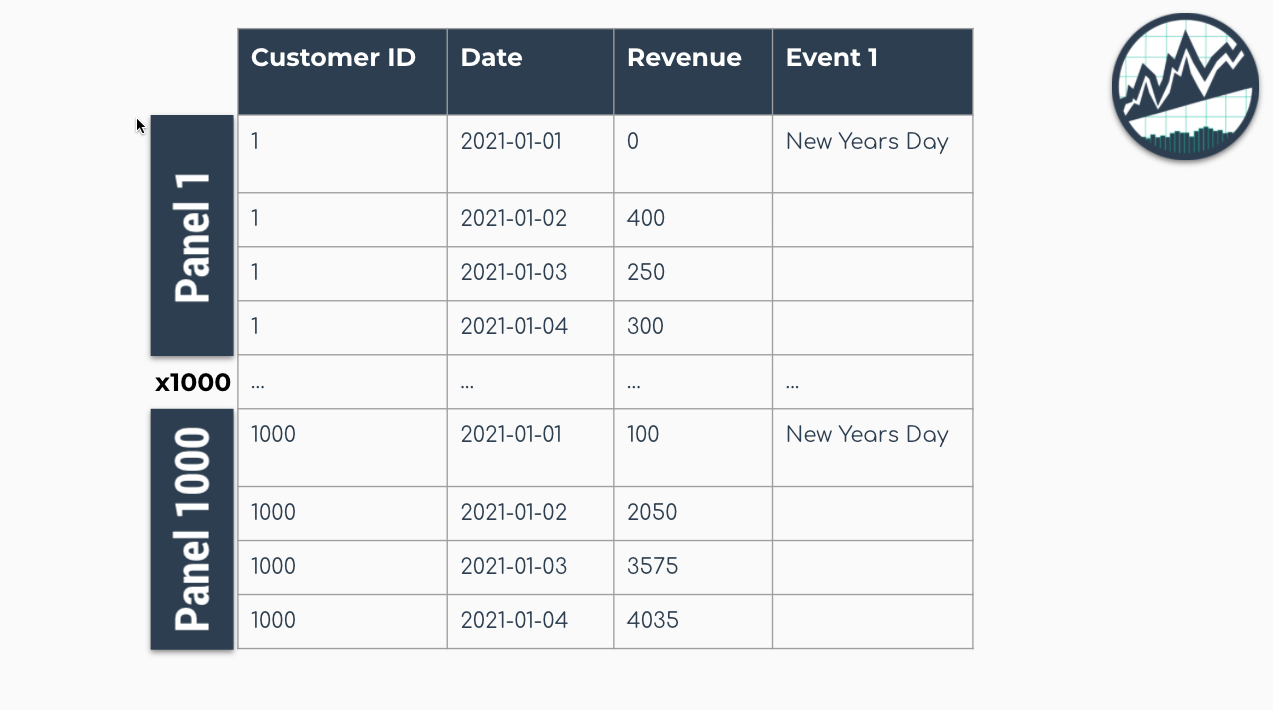
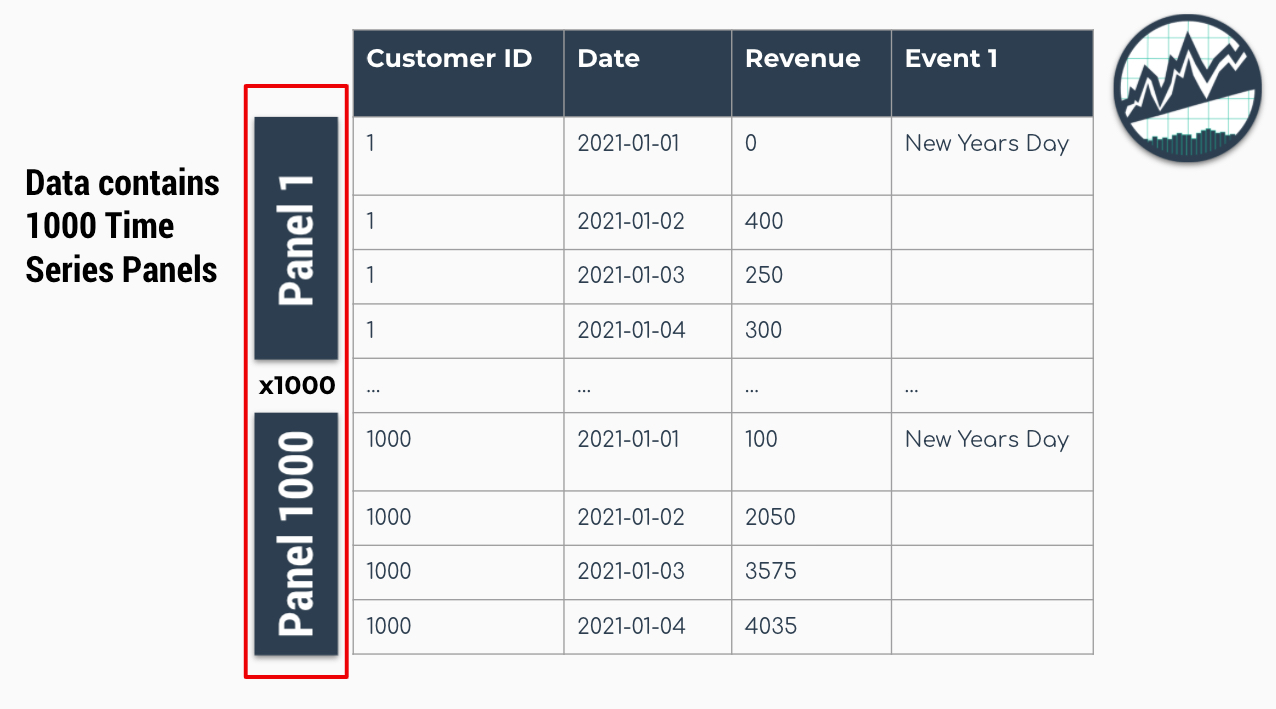
update images / intro

diff --git a/_posts/2021-07-19-modeltime-panel-data.md b/_posts/2021-07-19-modeltime-panel-data.md
@@ -10,7 +10,7 @@ image: 2021-07-19-panel-data/say_no_to_for_loops.jpg
 image_preview: 2021-07-19-panel-data/say_no_to_for_loops.jpg
 ---
 
-I'm __super excited__ to introduce the new panel data forecasting functionality in `modeltime`. It's perfect for forecasting many time series at once without for-loops saving you time ⏱ and aggravation 😞. <span style="color:red">__Just say NO to for-loops.__</span>
+Spending too much time on making iterative forecasts? I'm __super excited__ to introduce the new panel data forecasting functionality in `modeltime`. It's perfect for forecasting many time series at once without for-loops saving you time ⏱ and aggravation 😞.  <span style="color:red">__Just say NO to for-loops for forecasting.__</span>
 
 <div class="pull-right" style="width:60%; margin-left:20px; margin-bottom:20px;">
   <a href="#" target="_blank">
@@ -36,7 +36,8 @@ I can't possibly go over all of the new modeltime features released in 0.7.0 in 
 
 - Deep Learning (Torch Integration)
 - Global Models
-- New Features
+- Panel Data Forecasting
+- New Modeltime Features
 - And, a lot of `code` 
 
 <p style="font-size:36px;text-align:center;">
@@ -67,9 +68,9 @@ Modeltime is part of a __growing ecosystem__ of forecasting packages. Modeltime 
 
 And several new community-contributed `modeltime` extension packages have emerged including: [boostime](https://github.com/AlbertoAlmuinha/boostime), [bayesmodels](https://albertoalmuinha.github.io/bayesmodels/), [garchmodels](https://albertoalmuinha.github.io/garchmodels/), and [sknifedatar](https://rafzamb.github.io/sknifedatar/)
 
-# Problem: Forecast Iteration is <span style='color:red'>Not Scalable</span>
+# Problem: Forecasting with For-Loops is <span style='color:red'>Not Scalable</span>
 
-__Time series are increasing at an exponential rate.__ Organization-wide forecasting demands have changed from top-level to bottom-level forecasting, which has increased the number of forecasts that need to be made from the range of 1-100 to the range of 1,000-10,000. 
+__Time series data is increasing at an exponential rate.__ Organization-wide forecasting demands have changed from top-level to bottom-level forecasting, which has increased the number of forecasts that need to be made from the range of 1-100 to the range of 1,000-10,000. 
 
 Think of forecasting by customer for an organization that has __10,000 customers__. It becomes a _challenge_ to make these forecasts one at a time in an iterative approach. As that organization grows, moving from 10,000 to 100,000 customers, <span style='color:red;'>__forecasting with an iterative approach is not scalable.__</span>
 
@@ -109,8 +110,11 @@ The downside is that an global model approach can be less accurate than the iter
 
 # Say No to For-Loops
 
+If you're tired of waiting for ARIMA models to finish, then maybe it's time to __say NO to for-loops__ and give `modeltime` a try. 
+
 ![Forecasting without For-Loops](/assets/2021-07-19-panel-data/say_no_to_for_loops.jpg)
-<p class="text-center date">Forecasting Panel Data with Modeltime</p>
+
+<p class="text-center date">Forecast using Global Models and Panel Data with Modeltime for a 1000X Speed-up</p>
 
 While Modeltime [can perform iterative modeling](https://rafzamb.github.io/sknifedatar/articles/workflowsets_multi_times.html), Modeltime excels at __forecasting at scale without For-Loops__ using:
 
@@ -126,7 +130,7 @@ While Modeltime [can perform iterative modeling](https://rafzamb.github.io/sknif
 
 - __Global and Localized Confidence Intervals Reporting__: Generating out-of-sample confidence intervals both globally and at a local level by time series identifier (available in `modeltime` >= 0.7.0)
 
-We'll showcase several of these features in our tutorial on forecasting many time series without for-loops. 
+Once you learn these concepts, you can achieve __speed-ups of 1000X or more.__ We'll showcase several of these features in our tutorial on forecasting many time series without for-loops. 
 
 # Tutorial on Forecasting Many Time Series (Without For-Loops)
 
